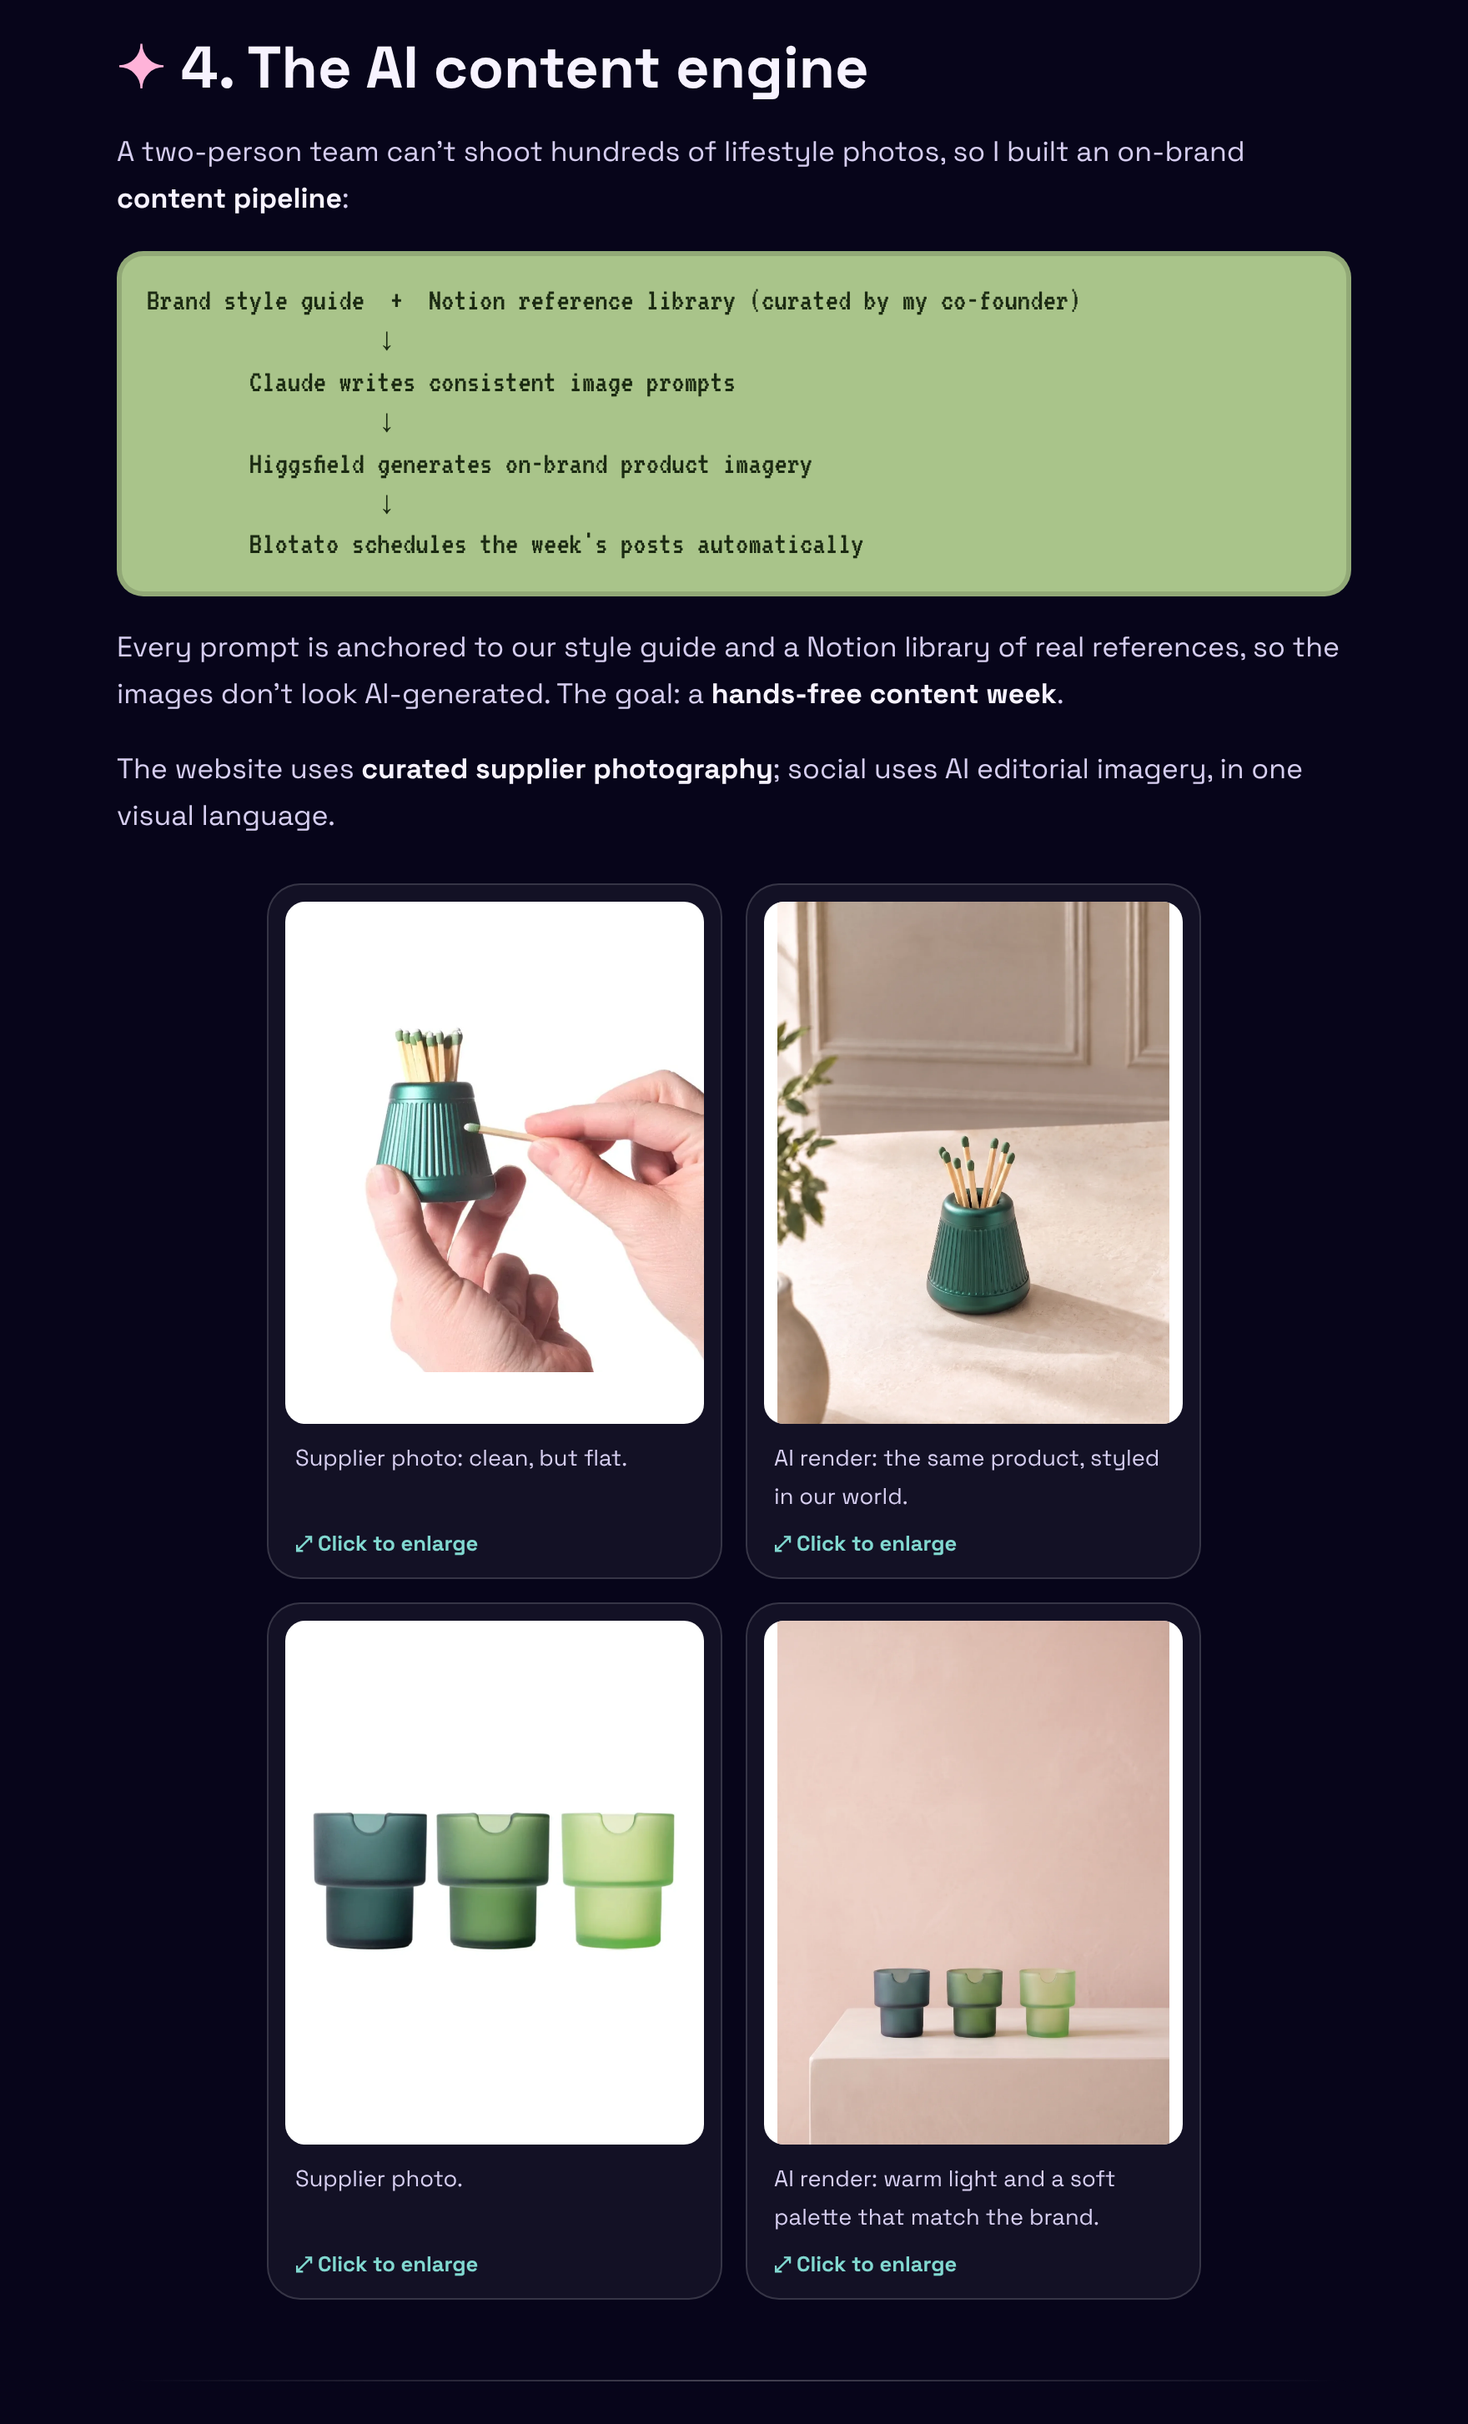
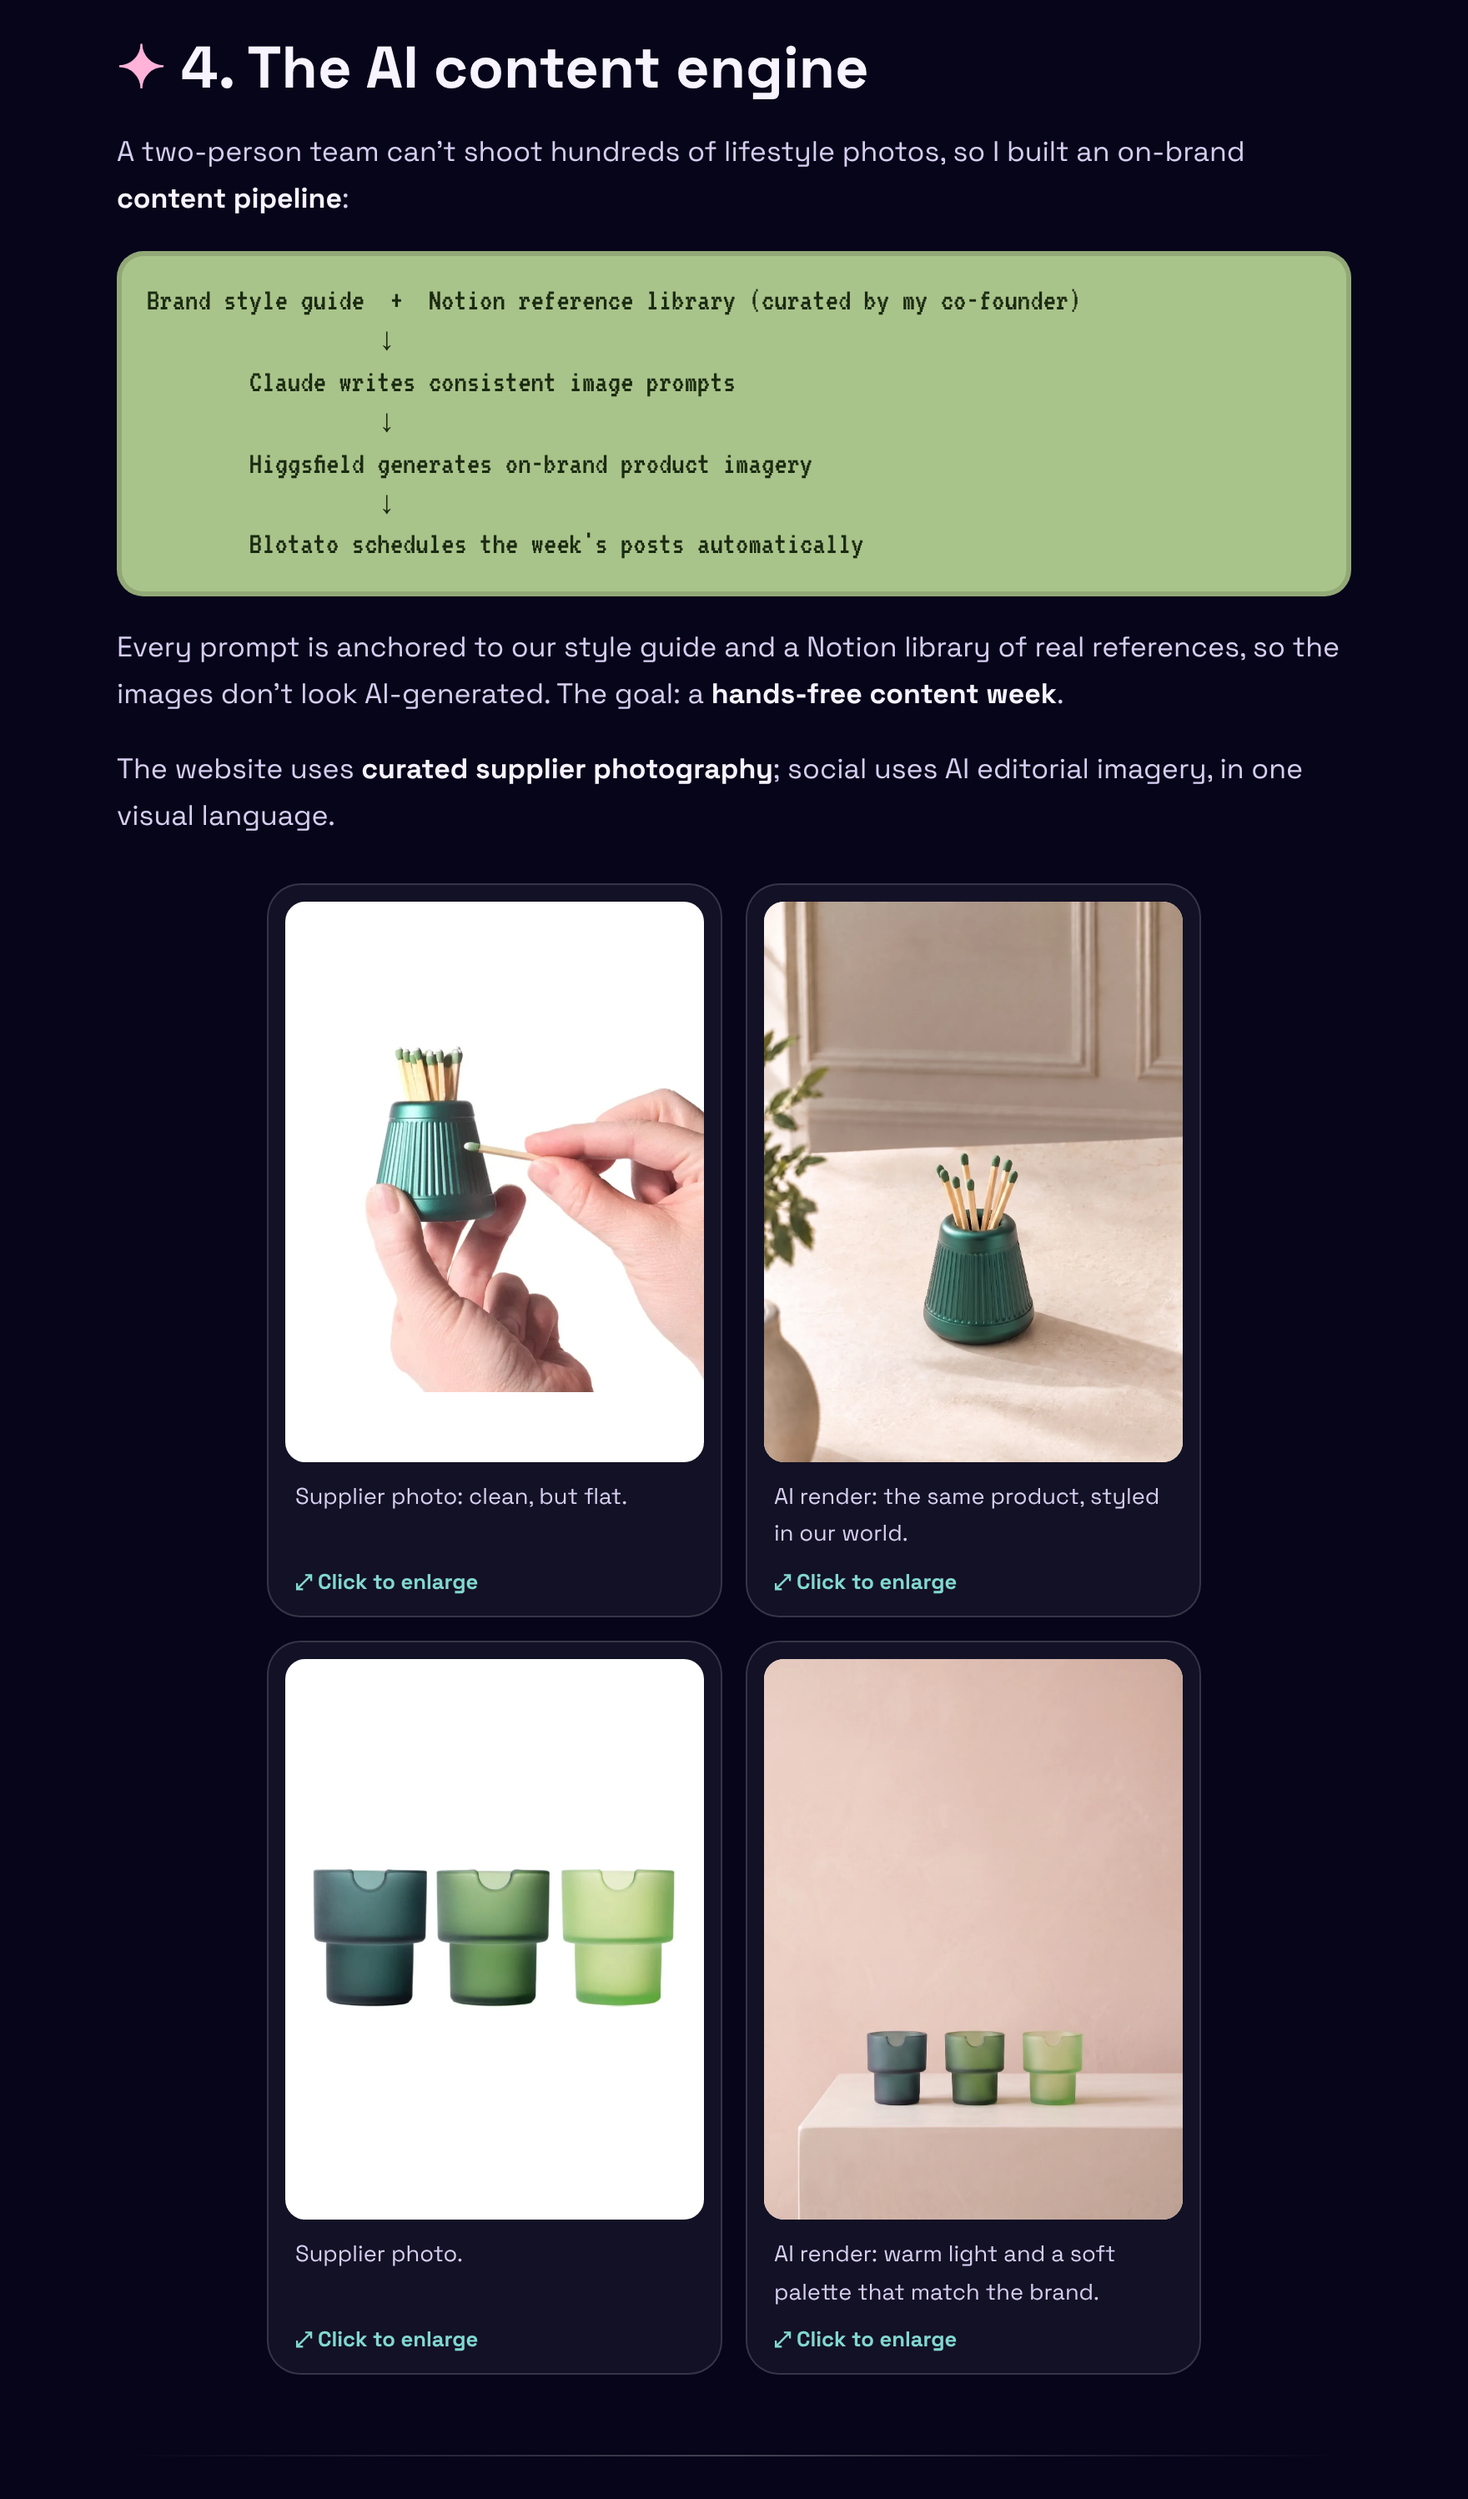
Fridays-Off: render frames match render shape, no side gaps
Claude-Session: https://claude.ai/code/session_0126NKCS3TtysyaQaZxswtoT

diff --git a/site/case-studies/bond-centre.html b/site/case-studies/bond-centre.html
@@ -87,7 +87,7 @@
   .pair.wide .gallery{max-width:none}
   .pair.wide figure img{height:auto;aspect-ratio:16/10}
   .pair.portrait .gallery{max-width:560px}
-  .pair.portrait figure img{height:auto;aspect-ratio:4/5}
+  .pair.portrait figure img{height:auto;aspect-ratio:1493/2000}
   .pair.trio .gallery{grid-template-columns:repeat(3,minmax(0,1fr))}
   @media (max-width:640px){.pair.trio .gallery{grid-template-columns:1fr 1fr}}
   figure img{cursor:zoom-in}

diff --git a/site/case-studies/dental.html b/site/case-studies/dental.html
@@ -87,7 +87,7 @@
   .pair.wide .gallery{max-width:none}
   .pair.wide figure img{height:auto;aspect-ratio:16/10}
   .pair.portrait .gallery{max-width:560px}
-  .pair.portrait figure img{height:auto;aspect-ratio:4/5}
+  .pair.portrait figure img{height:auto;aspect-ratio:1493/2000}
   .pair.trio .gallery{grid-template-columns:repeat(3,minmax(0,1fr))}
   @media (max-width:640px){.pair.trio .gallery{grid-template-columns:1fr 1fr}}
   figure img{cursor:zoom-in}

diff --git a/site/case-studies/fridays-off.html b/site/case-studies/fridays-off.html
@@ -87,7 +87,7 @@
   .pair.wide .gallery{max-width:none}
   .pair.wide figure img{height:auto;aspect-ratio:16/10}
   .pair.portrait .gallery{max-width:560px}
-  .pair.portrait figure img{height:auto;aspect-ratio:4/5}
+  .pair.portrait figure img{height:auto;aspect-ratio:1493/2000}
   .pair.trio .gallery{grid-template-columns:repeat(3,minmax(0,1fr))}
   @media (max-width:640px){.pair.trio .gallery{grid-template-columns:1fr 1fr}}
   figure img{cursor:zoom-in}

diff --git a/site/case-studies/project-insight.html b/site/case-studies/project-insight.html
@@ -87,7 +87,7 @@
   .pair.wide .gallery{max-width:none}
   .pair.wide figure img{height:auto;aspect-ratio:16/10}
   .pair.portrait .gallery{max-width:560px}
-  .pair.portrait figure img{height:auto;aspect-ratio:4/5}
+  .pair.portrait figure img{height:auto;aspect-ratio:1493/2000}
   .pair.trio .gallery{grid-template-columns:repeat(3,minmax(0,1fr))}
   @media (max-width:640px){.pair.trio .gallery{grid-template-columns:1fr 1fr}}
   figure img{cursor:zoom-in}

diff --git a/tools/case_study_template.html b/tools/case_study_template.html
@@ -87,7 +87,7 @@
   .pair.wide .gallery{max-width:none}
   .pair.wide figure img{height:auto;aspect-ratio:16/10}
   .pair.portrait .gallery{max-width:560px}
-  .pair.portrait figure img{height:auto;aspect-ratio:4/5}
+  .pair.portrait figure img{height:auto;aspect-ratio:1493/2000}
   .pair.trio .gallery{grid-template-columns:repeat(3,minmax(0,1fr))}
   @media (max-width:640px){.pair.trio .gallery{grid-template-columns:1fr 1fr}}
   figure img{cursor:zoom-in}
